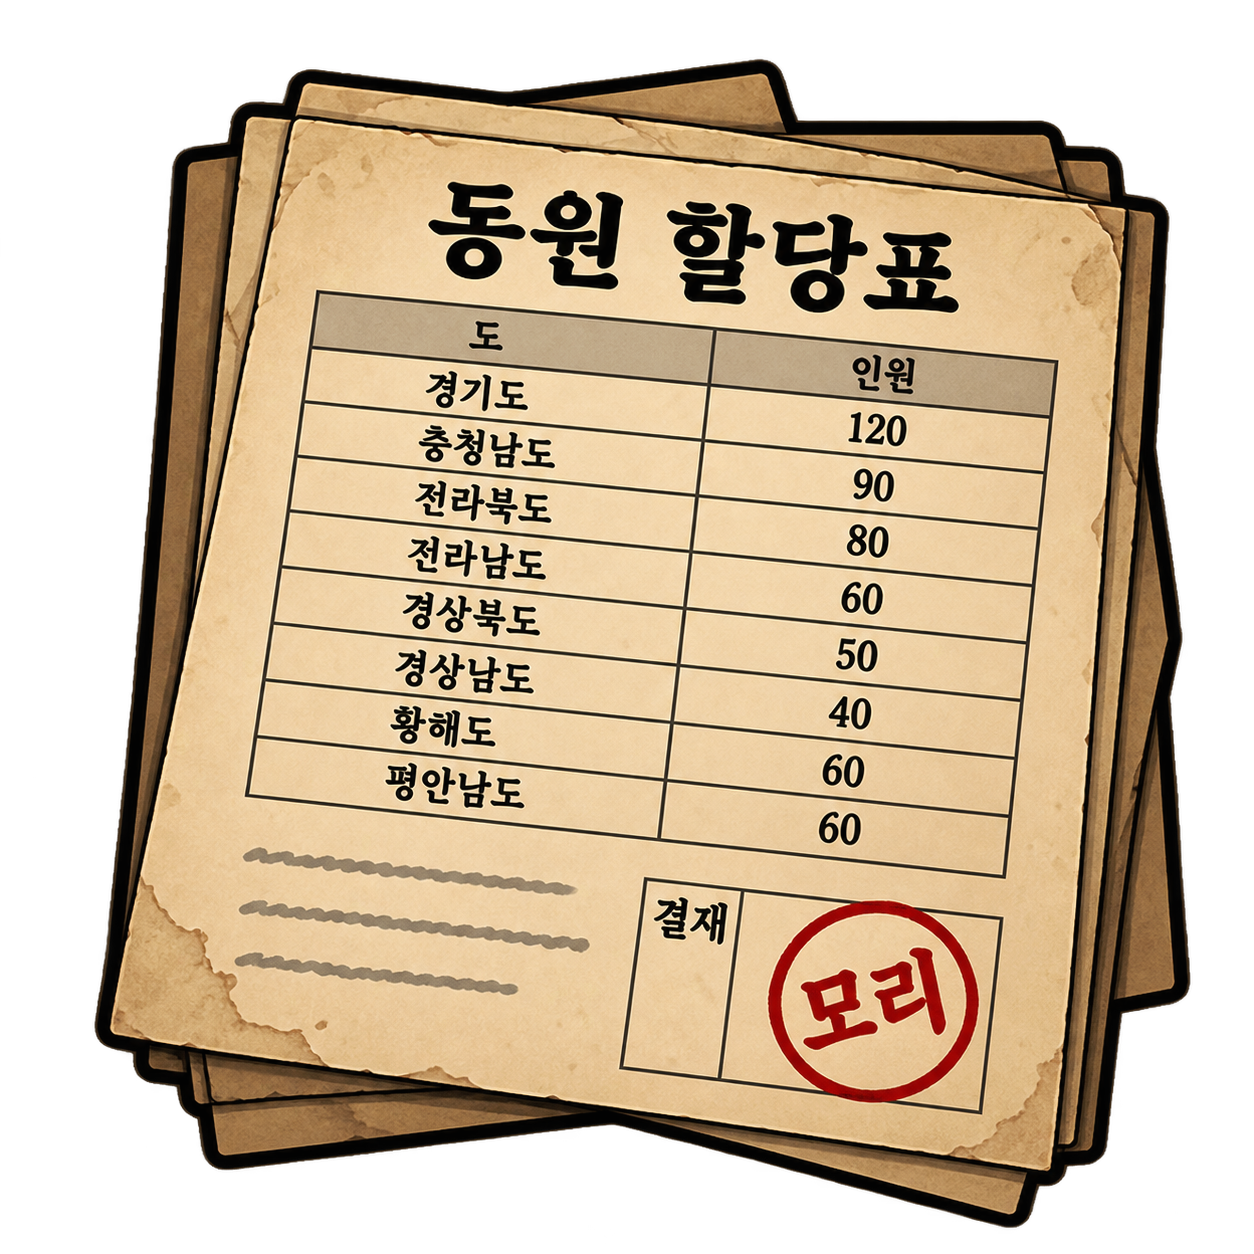
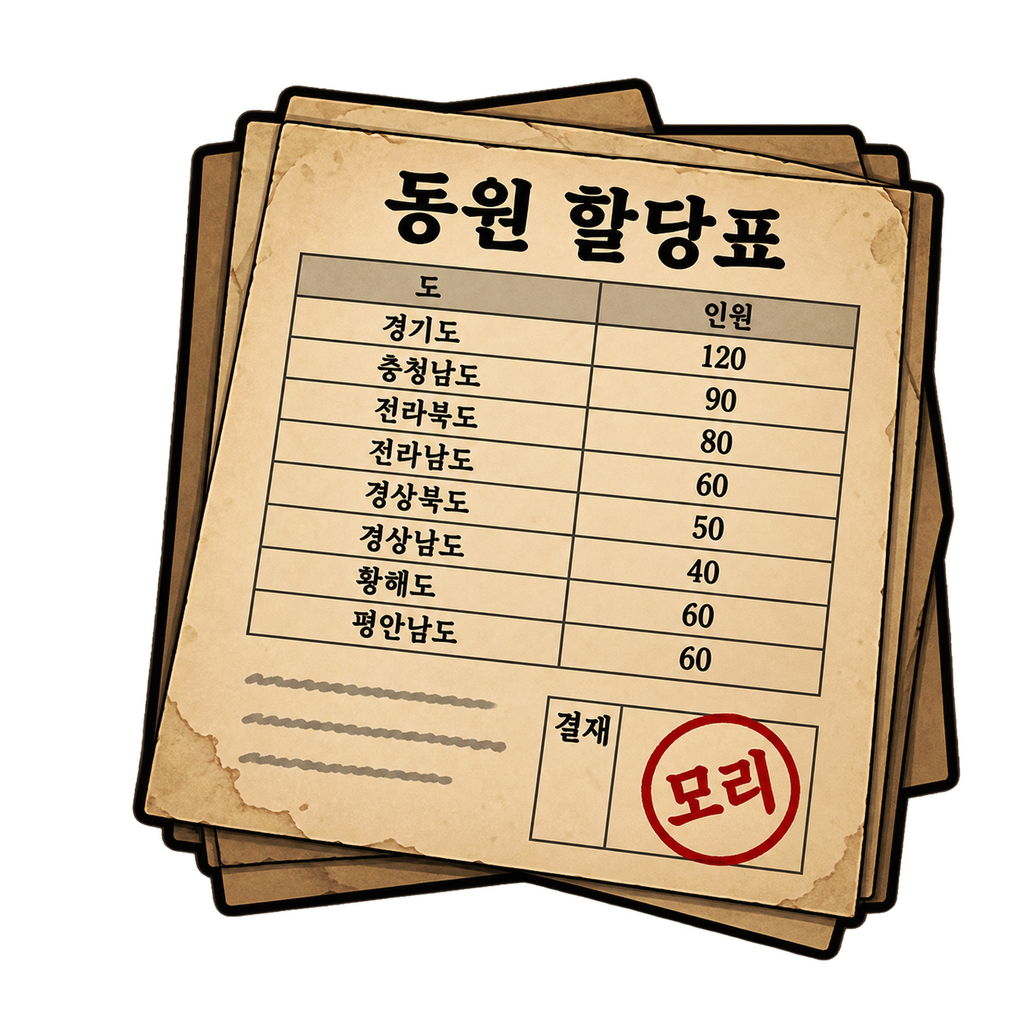
1화 동원 할당표 크기 통일, 1화 완료 표시
Claude-Session: https://claude.ai/code/session_01NHYzrX55wKaEEAPmcQpN8C

diff --git a/docs/스프라이트_목록.md b/docs/스프라이트_목록.md
@@ -538,6 +538,6 @@ ChatGPT에 한 번에 여러 장(따로 된 그림)을 요청해서 만든다.
 3. 고정 인물 나머지 표정 (완료)
 4. 법정 배경 8장과 책상 앞그림 4장 (완료)
 5. UI 42장 모두 완료
-6. 1화에 필요한 그림: 인물, 배경, 연출 컷, 증거 완료. `ep1_quota_table`만 다시 그리는 중 (표에 일본 지명이 들어감)
+6. 1화에 필요한 그림: 인물, 배경, 연출 컷, 증거 모두 완료
 7. 2화에 필요한 그림: 인물, 배경, 연출 컷, 증거, 지도 모두 완료 (`ep2_scar`는 흉터 확대 그림에서 잘라 만듦)
 8. 3화부터 차례로
